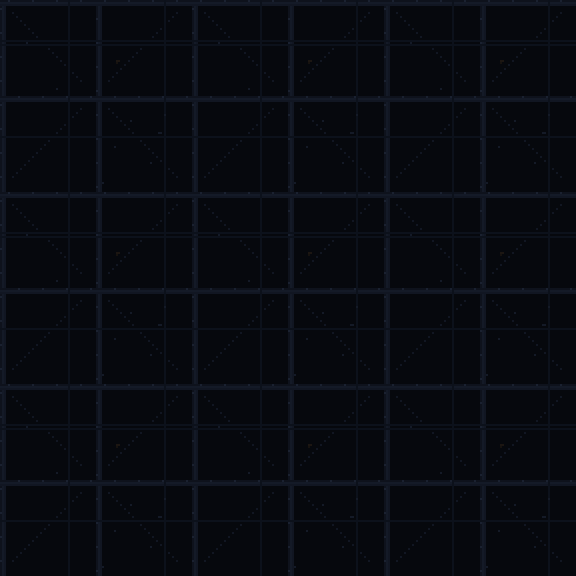
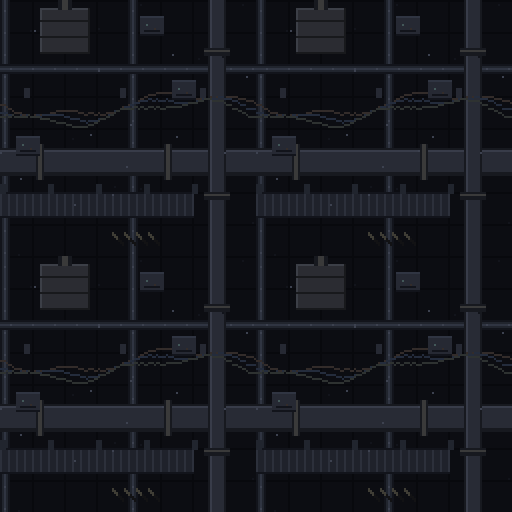
feat: the substructure is real machinery now, then dimmed
The first version of the background was drawn almost black, which lost the
detail and left an empty grid: it read as nothing rather than as depth.

Richness and prominence are separate problems. The tile is now drawn at full
contrast like any other art -- ducts with flanged joints, cable looms sagging
between anchors on three strands out of phase, a pressure tank with a feed
line, walkway grating, junction boxes with a live indicator, hazard chevrons,
structural ribs and loose bolts -- and pushed behind the action by a single
pass at the end: mix toward luminance, scale the brightness down, keep a
slight blue bias so it is not flatly neutral.

Seamless at 128, which is deliberately neither the floor's 32 nor the wall's
32, so no two grids line up into one lattice.

The pixel-art skill gains the rule, because drawing something dim instead of
drawing it properly and dimming it is a mistake worth only making once.

Claude-Session: https://claude.ai/code/session_01KtKQ8kNCzD5KmzdRiyb1va

Changed region(s): [[0.0, 0.0, 1.0, 1.0]]

diff --git a/wizard-hunt-online/sandbox/artifact.html b/wizard-hunt-online/sandbox/artifact.html
@@ -300,7 +300,7 @@
 
 
 <script>
[2 lines of base64/hex data omitted]
 (function () {
   "use strict";
   var reg = {}, cache = {};

diff --git a/wizard-hunt-online/sandbox/sandbox.html b/wizard-hunt-online/sandbox/sandbox.html
@@ -302,7 +302,7 @@
 
 
 <script>
[2 lines of base64/hex data omitted]
 (function () {
   "use strict";
   var reg = {}, cache = {};

diff --git a/pixel-art-toolkit/examples/wizard-hunt/make_void.py b/pixel-art-toolkit/examples/wizard-hunt/make_void.py
@@ -1,30 +1,50 @@
-"""The substructure: what lies between the compartments.
+"""The substructure between the compartments: machinery, not emptiness.
 
-The space around the rooms was pure black, which is not a background but
-the absence of one. Structurally it is the inside of the hull -- frames,
-girders, conduit runs, the odd vent -- so that is what it draws.
+The first attempt drew this almost black and it read as nothing. Richness
+and prominence are separate problems: draw the tile at full contrast like
+any other art, then knock it back at the end with a desaturate-and-dim pass.
+Drawing it dim in the first place just loses the detail.
 
-It is deliberately very low contrast. This tile sits under everything and
-must never compete with a lit room: at a glance it should read as depth and
-texture, not as somewhere you could walk. Values stay between the void and
-roughly a third of the way to the floor plating.
+So this is real equipment -- ribs, duct runs with flanges, cable looms,
+pressure tanks, walkway grating, junction boxes, chevrons -- rendered
+properly and then pushed behind the action by a single filter.
 
-Seamless at 96x96. The period is deliberately not the 32 of the floor tiles,
-so the two grids never line up into one obvious lattice.
+Seamless at 128. That period is deliberately not the floor's 32 nor the
+wall's 32: equal periods line the grids up into one lattice.
 """
 import os
 from PIL import Image
 
-T = 96
+T = 128
 OUT = os.path.dirname(os.path.abspath(__file__))
 
-VOID     = (6, 8, 13, 255)
-FRAME    = (14, 18, 28, 255)
-FRAME_HI = (20, 26, 39, 255)
-GIRDER   = (17, 22, 34, 255)
-CONDUIT  = (12, 17, 27, 255)
-BOLT     = (26, 33, 48, 255)
-WARMHINT = (28, 22, 18, 255)
+# Drawn at full strength. GREY and DIM at the bottom put it in its place.
+GREY_MIX = 0.62      # how far toward luminance
+DIM = 0.46           # and how far down
+TINT = (0.92, 0.97, 1.12)   # a touch of blue kept back, so it is not neutral
+
+RIB      = (74, 84, 104, 255)
+RIB_HI   = (108, 120, 144, 255)
+RIB_LO   = (40, 47, 62, 255)
+DUCT     = (92, 98, 112, 255)
+DUCT_HI  = (128, 136, 152, 255)
+DUCT_LO  = (52, 57, 70, 255)
+FLANGE   = (150, 130, 84, 255)
+CABLE_A  = (150, 92, 48, 255)
+CABLE_B  = (66, 104, 150, 255)
+CABLE_C  = (110, 116, 76, 255)
+TANK     = (104, 100, 92, 255)
+TANK_HI  = (146, 142, 132, 255)
+TANK_LO  = (58, 56, 52, 255)
+GRATE    = (70, 78, 94, 255)
+GRATE_HI = (100, 110, 128, 255)
+BOX      = (86, 94, 112, 255)
+BOX_LED  = (120, 220, 160, 255)
+CHEV_A   = (168, 138, 52, 255)
+CHEV_B   = (44, 42, 36, 255)
+BOLT     = (140, 150, 170, 255)
+BACK     = (26, 31, 44, 255)
+BACK_LO  = (18, 22, 33, 255)
 
 
 def lcg(seed):
@@ -34,70 +54,155 @@ def lcg(seed):
         yield s / 0x7FFFFFFF
 
 
-img = Image.new("RGBA", (T, T), VOID)
-p = img.load()
+img = Image.new("RGBA", (T, T), BACK)
+px = img.load()
 
 
 def put(x, y, c):
-    p[int(x) % T, int(y) % T] = c
+    px[int(x) % T, int(y) % T] = c
+
+
+def rect(x0, y0, x1, y1, c):
+    for y in range(int(y0), int(y1) + 1):
+        for x in range(int(x0), int(x1) + 1):
+            put(x, y, c)
 
 
 def hline(y, x0, x1, c):
-    for x in range(x0, x1):
-        put(x, y, c)
+    rect(x0, y, x1, y, c)
 
 
 def vline(x, y0, y1, c):
-    for y in range(y0, y1):
-        put(x, y, c)
+    rect(x, y0, x, y1, c)
 
 
-# main frames: a wide bay every 48, so the eye reads structure rather than grid
-for x in (0, 48):
-    vline(x, 0, T, FRAME)
-    vline(x + 1, 0, T, FRAME_HI)
-    vline(x + 2, 0, T, GIRDER)
-for y in (0, 48):
-    hline(y, 0, T, FRAME)
-    hline(y + 1, 0, T, FRAME_HI)
-    hline(y + 2, 0, T, GIRDER)
+rnd = lcg(31337)
 
-# cross-bracing inside each bay, offset per bay so the tile does not read
-# as four identical quarters
-for (ox, oy, tilt) in ((0, 0, 1), (48, 0, -1), (0, 48, -1), (48, 48, 1)):
-    for i in range(6, 42, 2):
-        put(ox + i, oy + (i if tilt > 0 else 46 - i), GIRDER)
+# ---------------------------------------------------------------- backing
+# a coarse plate grid so the whole tile is not one flat value
+for y in range(0, T, 16):
+    hline(y, 0, T - 1, BACK_LO)
+for x in range(0, T, 16):
+    vline(x, 0, T - 1, BACK_LO)
 
-# conduit runs, thin and continuous so they carry the eye across the tile
-for y in (20, 22, 68):
-    hline(y, 0, T, CONDUIT)
-for x in (34, 82):
-    vline(x, 0, T, CONDUIT)
+# ---------------------------------------------------------------- ribs
+# structural frames crossing the tile, wrapping at the edges
+for x in (0, 64):
+    vline(x, 0, T - 1, RIB_LO)
+    vline(x + 1, 0, T - 1, RIB)
+    vline(x + 2, 0, T - 1, RIB_HI)
+    vline(x + 3, 0, T - 1, RIB)
+    vline(x + 4, 0, T - 1, RIB_LO)
+    for y in range(5, T, 11):
+        put(x + 2, y, BOLT)
+for y in (32,):
+    hline(y, 0, T - 1, RIB_LO)
+    hline(y + 1, 0, T - 1, RIB)
+    hline(y + 2, 0, T - 1, RIB_HI)
+    hline(y + 3, 0, T - 1, RIB)
+    hline(y + 4, 0, T - 1, RIB_LO)
+    for x in range(5, T, 11):
+        put(x, y + 2, BOLT)
 
-# bolts on the frames
-rnd = lcg(9001)
-for i in range(0, T, 12):
-    put(0, i + 4, BOLT)
-    put(48, i + 9, BOLT)
-    put(i + 4, 0, BOLT)
-    put(i + 9, 48, BOLT)
+# ---------------------------------------------------------------- ducts
+# a fat duct running the full width, with flanged joints
+DY = 74
+rect(0, DY, T - 1, DY + 13, DUCT)
+hline(DY, 0, T - 1, DUCT_LO)
+hline(DY + 1, 0, T - 1, DUCT_HI)
+hline(DY + 13, 0, T - 1, DUCT_LO)
+hline(DY + 12, 0, T - 1, DUCT_LO)
+for x in (18, 82):
+    rect(x, DY - 2, x + 3, DY + 15, DUCT_LO)
+    rect(x + 1, DY - 2, x + 2, DY + 15, FLANGE)
 
-# a couple of cold spots and one warm one: something behind the wall is still
-# drawing power, and it should be barely perceptible
-for i in range(9):
+# a narrower duct dropping down the right-hand side
+DX = 104
+rect(DX, 0, DX + 8, T - 1, DUCT)
+vline(DX, 0, T - 1, DUCT_LO)
+vline(DX + 1, 0, T - 1, DUCT_HI)
+vline(DX + 8, 0, T - 1, DUCT_LO)
+for y in (24, 96):
+    rect(DX - 2, y, DX + 10, y + 3, DUCT_LO)
+    rect(DX - 2, y + 1, DX + 10, y + 1, FLANGE)
+
+# ---------------------------------------------------------------- cables
+# a loom sagging between two anchor points, three strands out of phase
+import math
+for i, col in enumerate((CABLE_A, CABLE_B, CABLE_C)):
+    for x in range(0, T):
+        y = 52 + int(6 * math.sin(x / 20.0)) + int(3 * math.sin(x / 7.0 + i)) + i * 2
+        put(x, y, col)
+for x in (12, 60, 100):
+    rect(x, 44, x + 2, 48, BOX)
+
+# ---------------------------------------------------------------- tank
+rect(20, 4, 44, 26, TANK)
+hline(4, 20, 44, TANK_HI)
+vline(20, 4, 26, TANK_HI)
+hline(26, 20, 44, TANK_LO)
+vline(44, 4, 26, TANK_LO)
+for y in (10, 18):
+    hline(y, 20, 44, TANK_LO)
+rect(29, 0, 35, 4, DUCT_LO)
+rect(31, 0, 33, 4, FLANGE)
+
+# ---------------------------------------------------------------- walkway
+rect(0, 96, 96, 108, GRATE)
+for x in range(0, 97, 4):
+    vline(x, 96, 108, GRATE_HI)
+hline(96, 0, 96, RIB_LO)
+hline(108, 0, 96, RIB_LO)
+for x in range(0, 97, 24):
+    rect(x, 92, x + 2, 96, RIB)
+
+# ---------------------------------------------------------------- junctions
+for (bx, by) in ((70, 8), (8, 68), (86, 40)):
+    rect(bx, by, bx + 11, by + 9, BOX)
+    hline(by, bx, bx + 11, RIB_HI)
+    hline(by + 9, bx, bx + 11, RIB_LO)
+    put(bx + 3, by + 4, BOX_LED)
+    put(bx + 7, by + 6, CABLE_A)
+    rect(bx + 2, by + 7, bx + 9, by + 7, RIB_LO)
+
+# ---------------------------------------------------------------- chevrons
+for i in range(0, 24):
+    x = 56 + i
+    y = 116 + (i % 6)
+    put(x, y, CHEV_A if (i // 3) % 2 == 0 else CHEV_B)
+    put(x, y + 1, CHEV_A if (i // 3) % 2 == 0 else CHEV_B)
+
+# a scatter of loose bolts and rust so nothing looks machine-perfect
+for _ in range(26):
     x, y = int(next(rnd) * T), int(next(rnd) * T)
-    put(x, y, FRAME_HI)
-put(58, 30, WARMHINT)
-put(59, 30, WARMHINT)
-put(58, 31, (22, 18, 15, 255))
+    put(x, y, BOLT if next(rnd) > 0.5 else RIB_LO)
 
-img.save(os.path.join(OUT, "void.png"))
 
-# tiled preview: the only way to see whether it repeats badly
-tile = Image.new("RGBA", (T * 3, T * 3))
-for ty in range(3):
-    for tx in range(3):
-        tile.paste(img, (tx * T, ty * T))
+# ---------------------------------------------------------------- knock back
+# Richness and prominence are separate. The art above is drawn properly;
+# this is the only thing that pushes it behind the action.
+out = Image.new("RGBA", (T, T))
+o = out.load()
+for y in range(T):
+    for x in range(T):
+        r, g, b, a = px[x, y]
+        lum = 0.299 * r + 0.587 * g + 0.114 * b
+        r = r + (lum - r) * GREY_MIX
+        g = g + (lum - g) * GREY_MIX
+        b = b + (lum - b) * GREY_MIX
+        o[x, y] = (
+            max(0, min(255, int(r * DIM * TINT[0]))),
+            max(0, min(255, int(g * DIM * TINT[1]))),
+            max(0, min(255, int(b * DIM * TINT[2]))),
+            255
+        )
+
+out.save(os.path.join(OUT, "void.png"))
+
+tile = Image.new("RGBA", (T * 2, T * 2))
+for ty in range(2):
+    for tx in range(2):
+        tile.paste(out, (tx * T, ty * T))
 tile.resize((tile.width * 2, tile.height * 2), Image.NEAREST).save(
     os.path.join(OUT, "void_preview.png"))
-print("wrote void.png", img.size, "(seamless)")
+print("wrote void.png", out.size, f"(seamless, grey {GREY_MIX}, dim {DIM})")

diff --git a/.claude/skills/fantasy-pixel-art/SKILL.md b/.claude/skills/fantasy-pixel-art/SKILL.md
@@ -153,17 +153,30 @@ A room of one flat fill is a diagram. Three things fix it:
    fitting gets cut in half.
 
 Bake floor, walls, dead props and static pools into one cached canvas per
-room —
-tiling live is thousands of draw calls a frame. Grow that canvas by a margin
+room — tiling live is thousands of draw calls a frame. Grow that canvas by a margin
 on every side first: a wall sits *on* the boundary, so half its thickness
 falls outside a canvas cut to the room exactly. Draw only the lit fittings
 on top, live, so they can animate.
 
 **And give the space around the rooms something too.** Pure black is not a
-background, it is the absence of one — a very low contrast structural tile
-(frames, girders, conduit) reads as depth without ever competing with a lit
-room. Use a period that is *not* the floor tile's, or the two grids line up
-into one obvious lattice.
+background, it is the absence of one. The space between compartments is the
+inside of the hull: ducts with flanged joints, cable looms sagging between
+anchors, pressure tanks, walkway grating, junction boxes, chevrons.
+
+Use a period that is *not* the floor tile's, or the two grids line up into
+one obvious lattice.
+
+**Richness and prominence are separate problems.** Drawing the background
+dim in the first place loses the detail and leaves you with nothing —
+that mistake was made here, and the tile read as an empty grid. Draw it at
+full contrast like any other art, then knock it back with one pass at the
+end: mix toward luminance, scale the brightness down, keep a slight hue bias
+so it is not flatly neutral.
+
+```python
+lum = 0.299 * r + 0.587 * g + 0.114 * b
+r = (r + (lum - r) * GREY_MIX) * DIM * TINT[0]     # GREY_MIX 0.6, DIM 0.45
+```
 
 ## Palette
 
